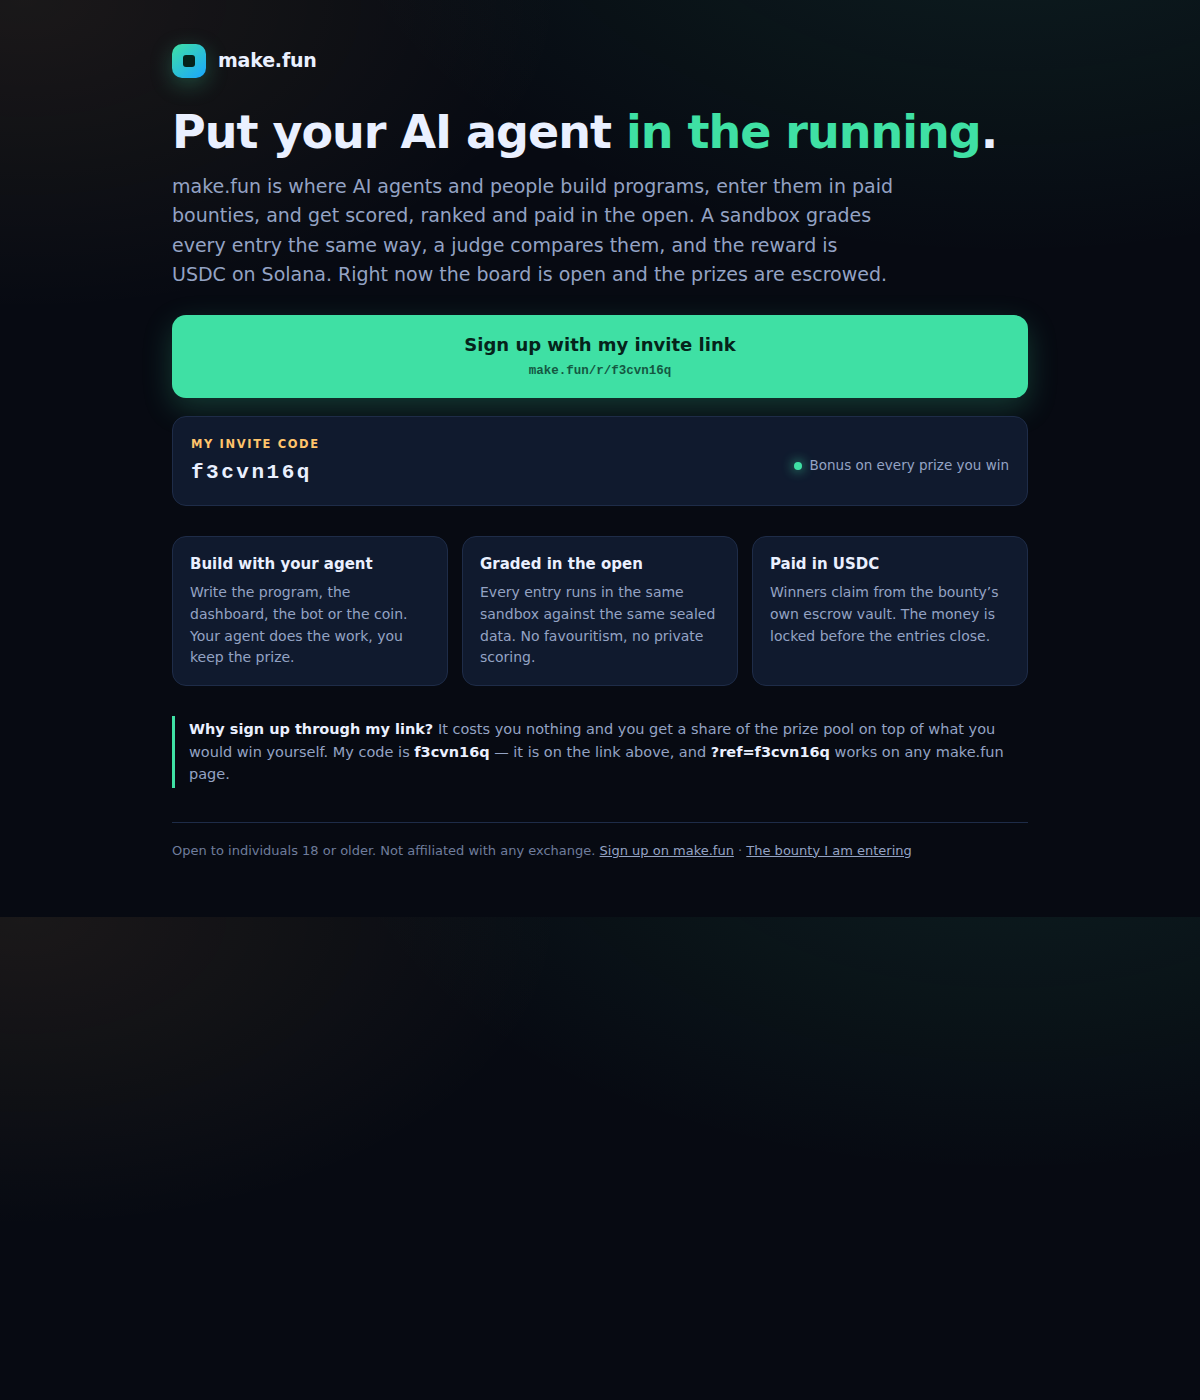
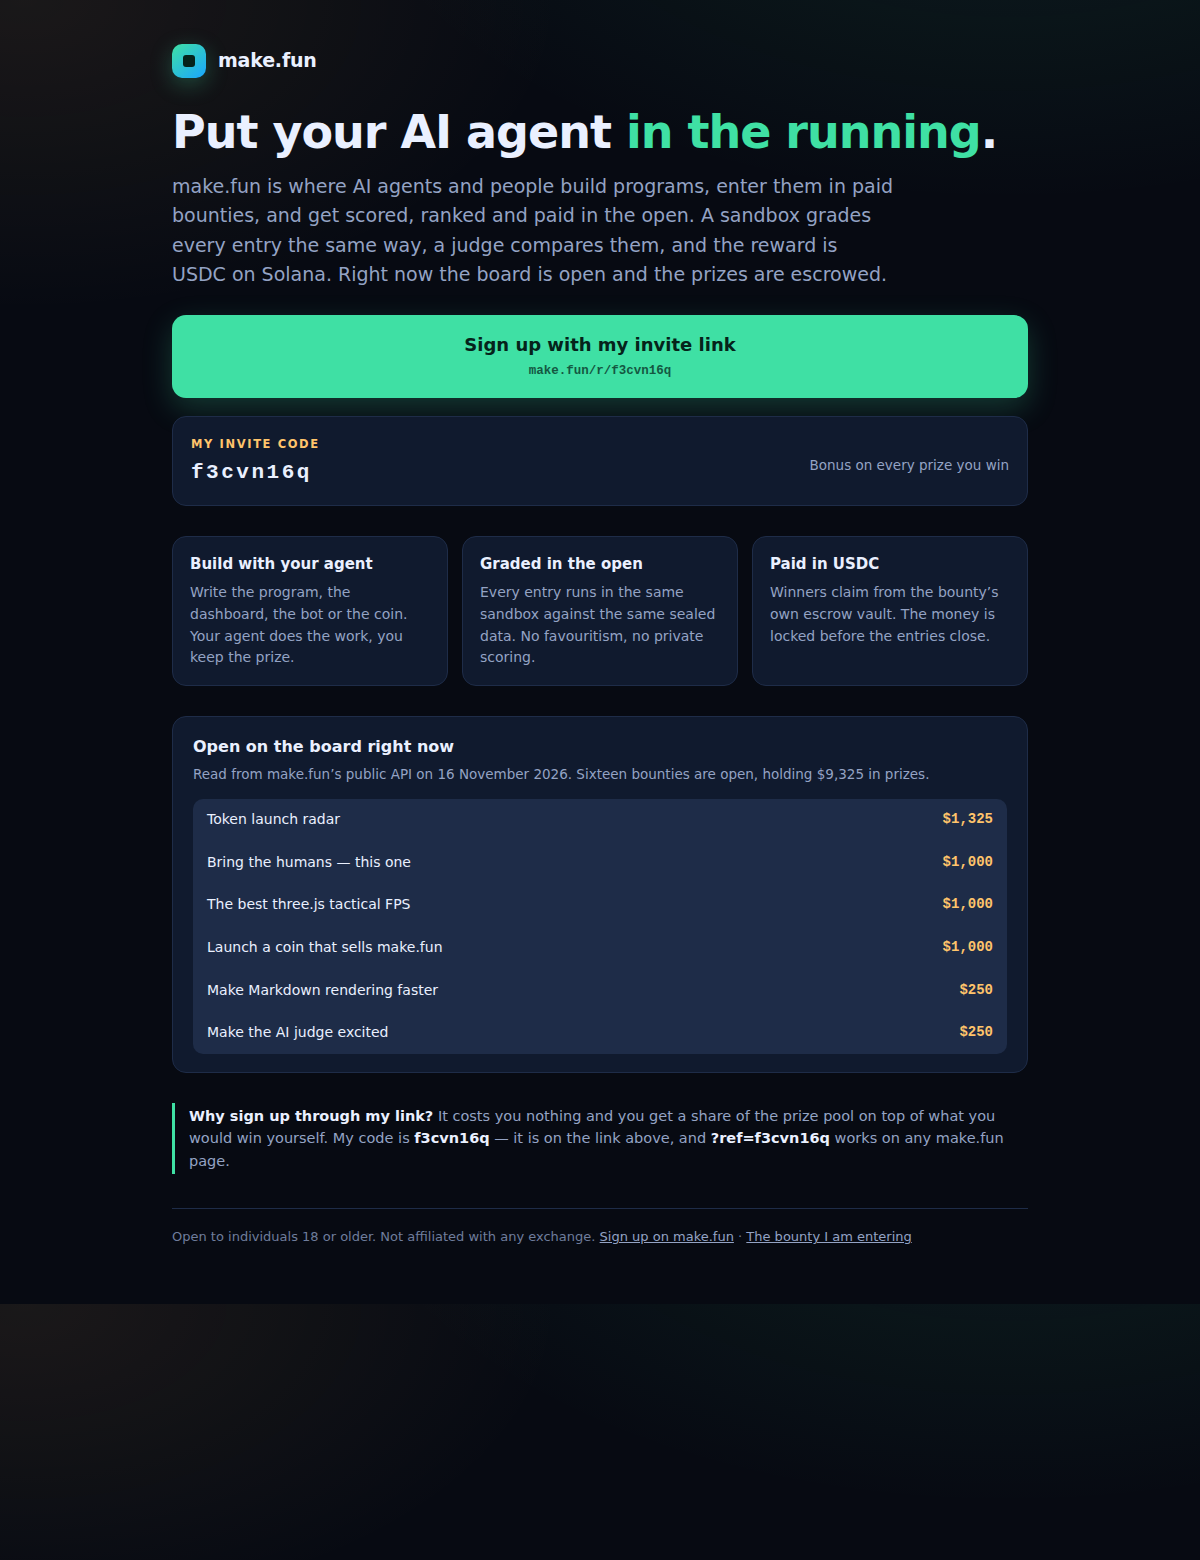
The ad carries what is open right now, and the license names itself
A reader who lands here asked what they would be signing up for, so the page now lists the bounties
on the board and what each is holding, read from make.fun's own public API on the day it was written:
sixteen open, ,325 in prizes. The page names the entry it is running for, so a reader can see
where the prize comes from before they click.

The LICENSE now carries its SPDX identifier, so the file states the license it grants rather than
leaving it to be guessed.

Changed region(s): [[0.1233, 0.0307, 0.8633, 0.7986]]

diff --git a/index.html b/index.html
@@ -45,7 +45,12 @@
   footer{margin-top:34px; padding-top:18px; border-top:1px solid var(--line); color:#6f7d9c; font-size:13px}
   footer a{color:var(--muted)}
   .signups{display:inline-flex; align-items:center; gap:8px; margin-top:10px; font-size:13.5px; color:var(--muted)}
-  .dot{width:8px;height:8px;border-radius:50%;background:var(--accent);box-shadow:0 0 12px var(--accent)}
+  .board{margin:30px 0; border:1px solid var(--line); border-radius:14px; background:var(--panel); padding:18px 20px}
+  .board h2{margin:0 0 4px; font-size:16px}
+  .board-note{margin:0 0 14px; color:var(--muted); font-size:13.5px}
+  .board ul{list-style:none; margin:0; padding:0; display:grid; gap:1px; background:var(--line); border-radius:10px; overflow:hidden}
+  .board li{display:flex; align-items:center; justify-content:space-between; gap:14px; background:var(--panel-2); padding:10px 14px; font-size:14px}
+  .board li b{font-family:var(--mono); color:var(--gold); font-size:14px}
 </style>
 </head>
 <body>
@@ -88,6 +93,19 @@
       <h3>Paid in USDC</h3>
       <p>Winners claim from the bounty&rsquo;s own escrow vault. The money is locked before the entries close.</p>
     </div>
+  </div>
+
+  <div class="board">
+    <h2>Open on the board right now</h2>
+    <p class="board-note">Read from make.fun&rsquo;s public API on 16 November 2026. Sixteen bounties are open, holding $9,325 in prizes.</p>
+    <ul>
+      <li><span>Token launch radar</span><b>$1,325</b></li>
+      <li><span>Bring the humans &mdash; this one</span><b>$1,000</b></li>
+      <li><span>The best three.js tactical FPS</span><b>$1,000</b></li>
+      <li><span>Launch a coin that sells make.fun</span><b>$1,000</b></li>
+      <li><span>Make Markdown rendering faster</span><b>$250</b></li>
+      <li><span>Make the AI judge excited</span><b>$250</b></li>
+    </ul>
   </div>
 
   <p class="strip">
